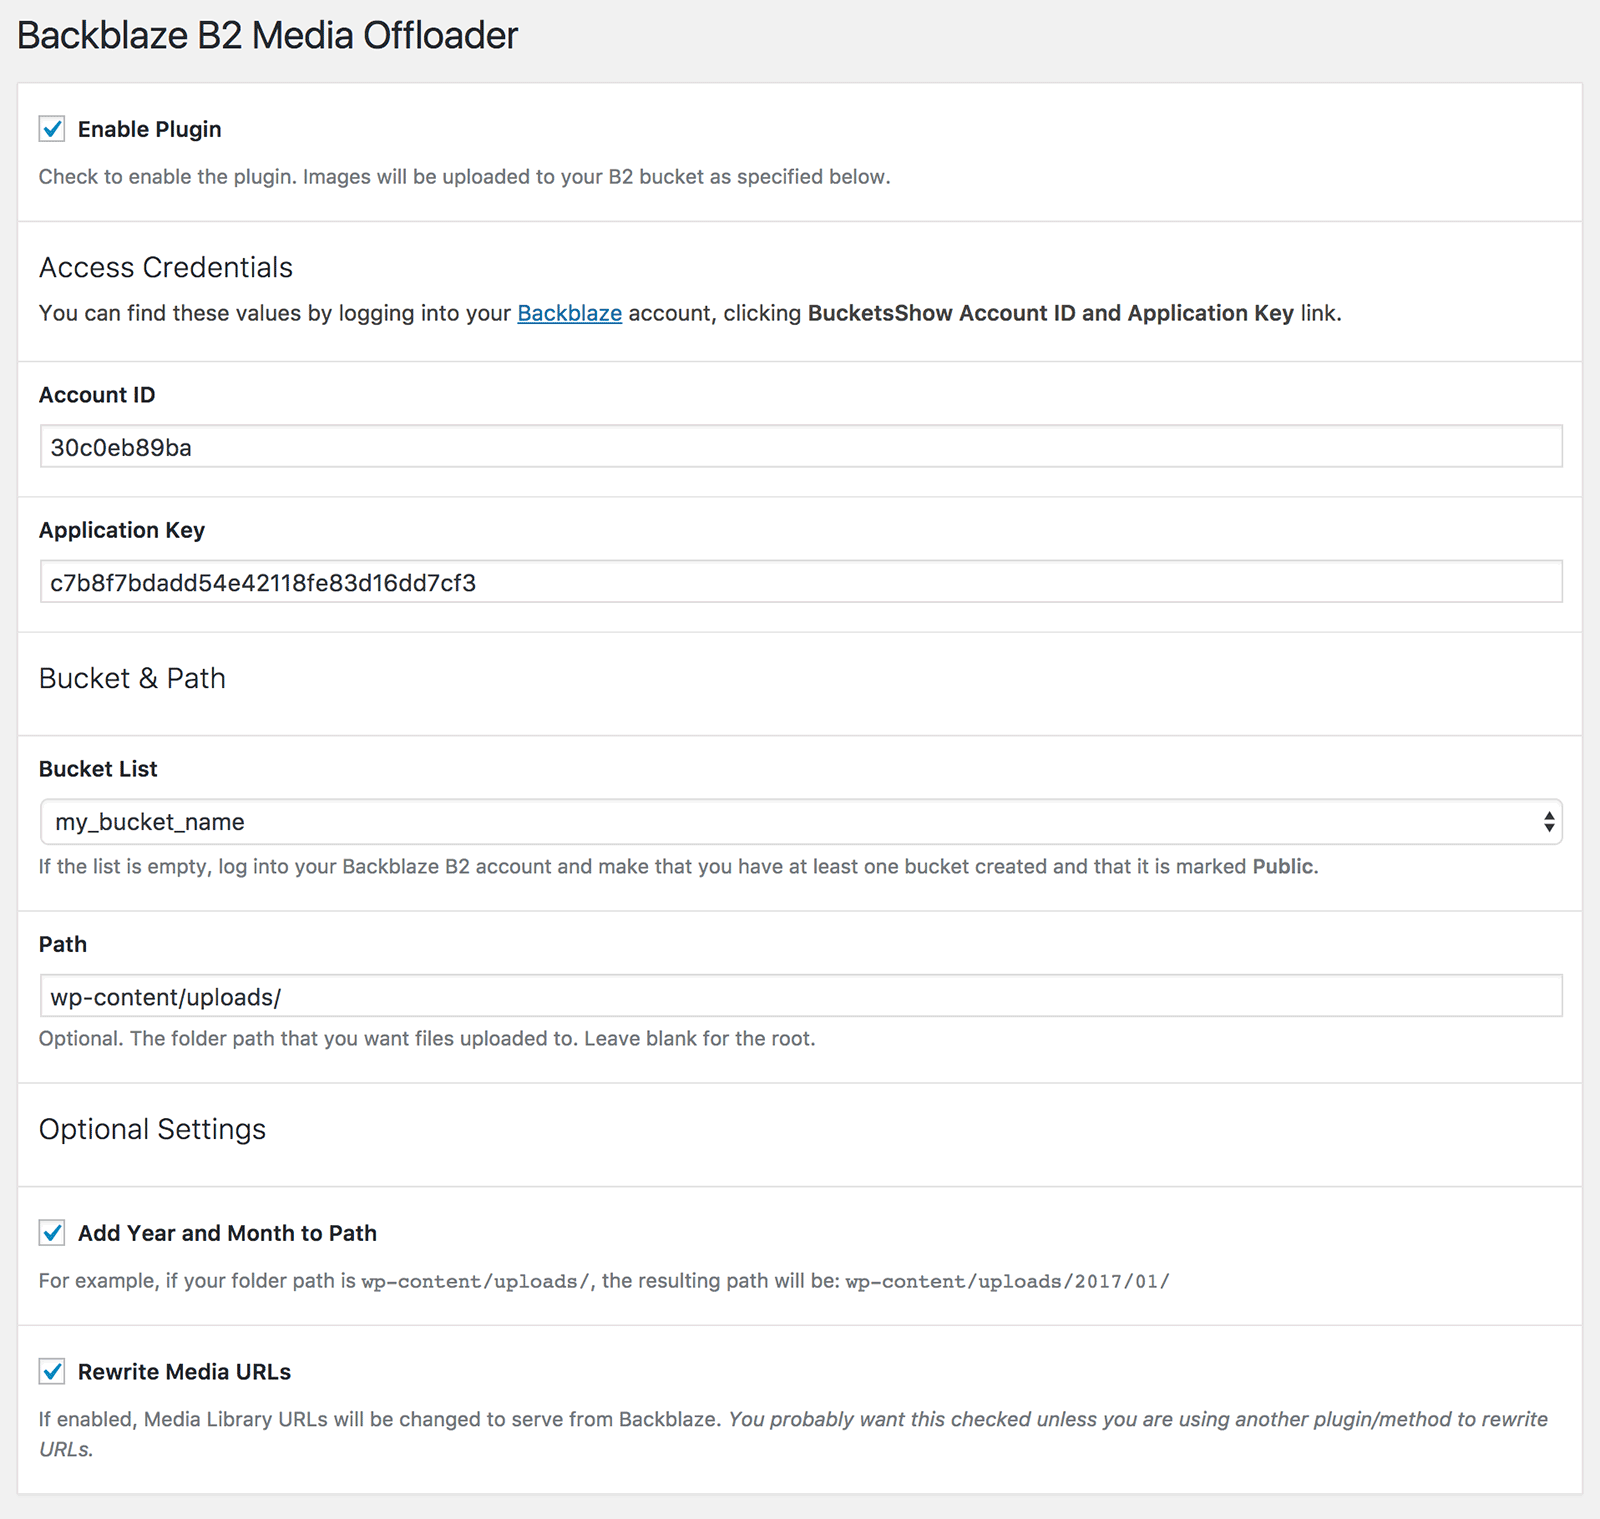
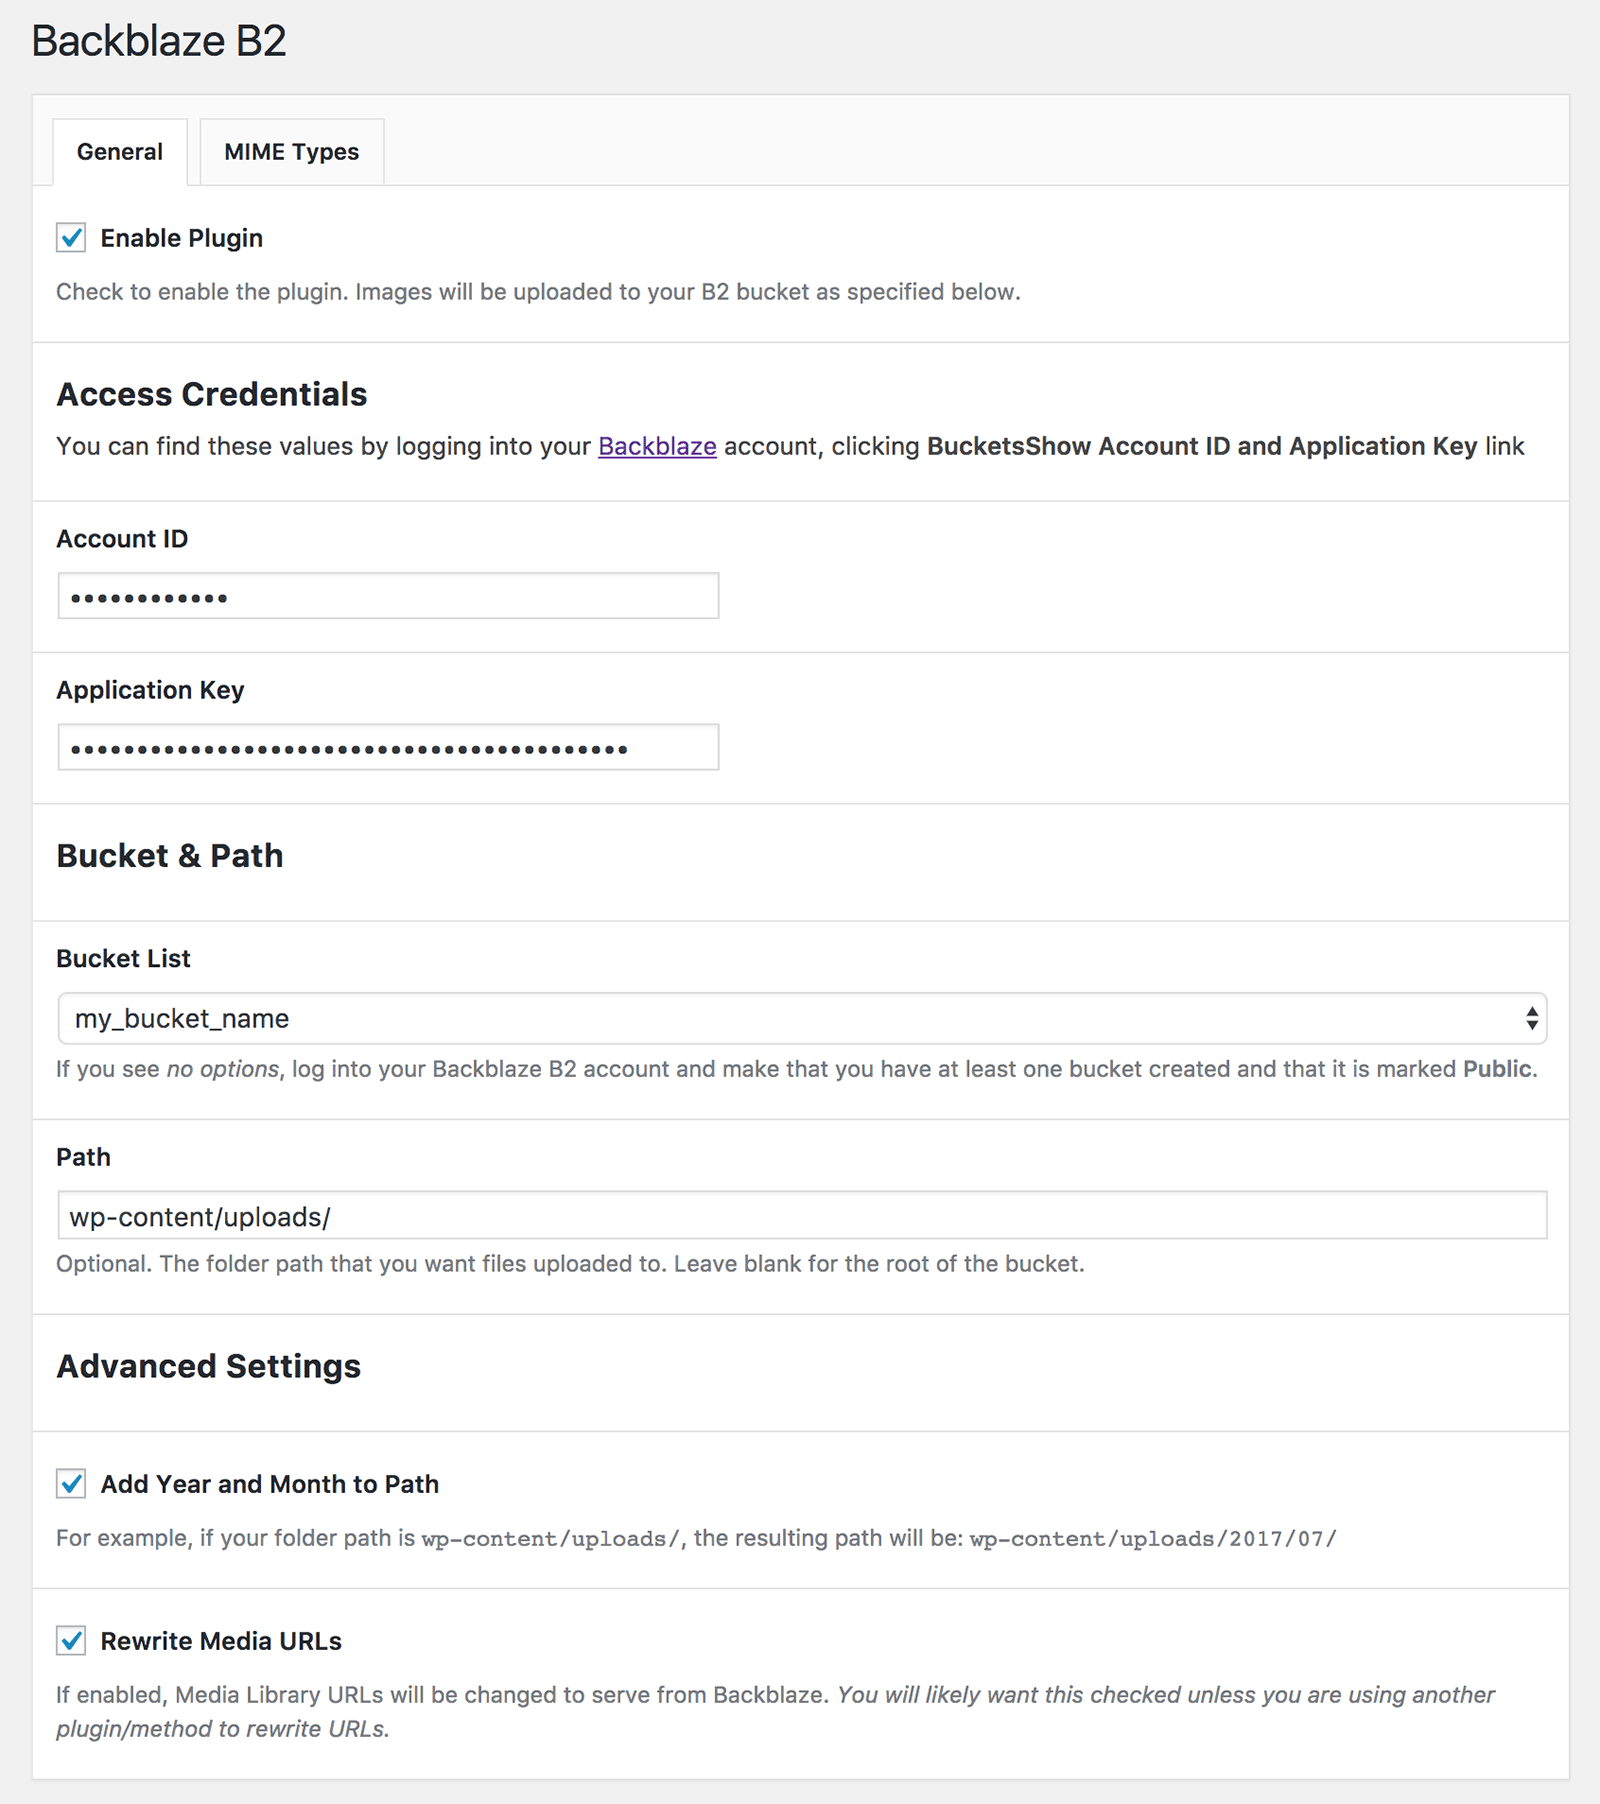
Updated screenshot

diff --git a/README.md b/README.md
@@ -41,6 +41,4 @@ If you are aware of any other compatibility issues, please [report them](https:/
 
 ## Screenshot
 
-*Note: The authentication fields contain fake data.*
-
 ![Settings Page](https://raw.githubusercontent.com/dmhendricks/backblaze-media-offloader/master/assets/screenshot-1.png "Settings Page")
